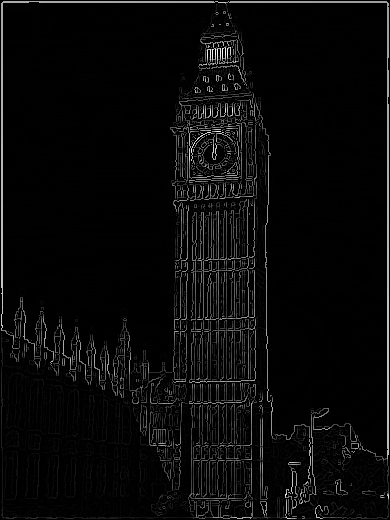
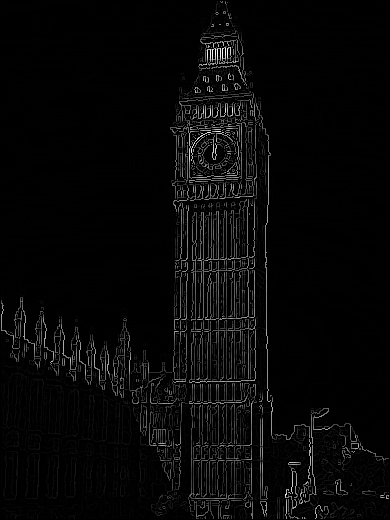
fix: fix white edges

diff --git a/main.cpp b/main.cpp
@@ -40,10 +40,8 @@ float gaussian(float x, double sigma) {
 }
 
 void applyBilateralFilter(BYTE *src, BYTE *dst, int imageWidth, int imageHeight, int imagePitch, int diameter, float sigmaI, float sigmaS) {
-    int half = diameter / 2;
-
-    for (int i = half; i < imageHeight - half; i++) {
-        for (int j = half; j < imageWidth - half; j++) {
+    for (int i = 0; i < imageHeight; i++) {
+        for (int j = 0; j < imageWidth; j++) {
             float iFiltered = 0;
             float wP = 0;
             int neighbor_i = 0;
@@ -54,6 +52,17 @@ void applyBilateralFilter(BYTE *src, BYTE *dst, int imageWidth, int imageHeight,
                 for (int jj = 0; jj < diameter; jj++) {
                     neighbor_i = i - (half - ii);
                     neighbor_j = j - (half - jj);
+                    if (neighbor_i < 0) {
+                        neighbor_i += diameter + 1;
+                    } else if (neighbor_i >= imageHeight) {
+                        neighbor_i -= diameter + 1;
+                    }
+                    if (neighbor_j < 0) {
+                        neighbor_j += diameter + 1;
+                    } else if (neighbor_j >= imageWidth) {
+                        neighbor_j -= diameter + 1;
+                    }
+
                     float gi = gaussian(src[neighbor_i * imagePitch + neighbor_j] - src[i * imagePitch + j], sigmaI);
                     float gs = gaussian(distance(i, j, neighbor_i, neighbor_j), sigmaS);
                     float w = gi * gs;
